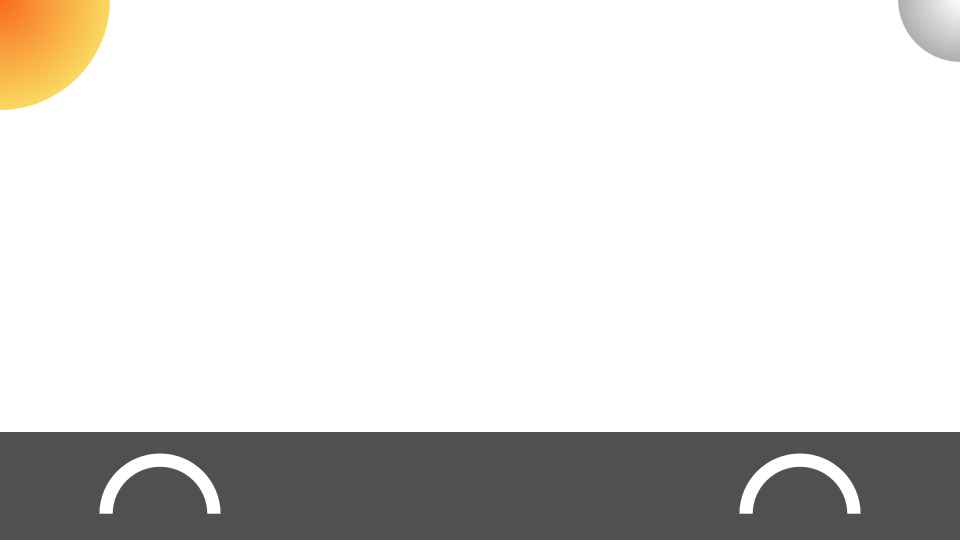
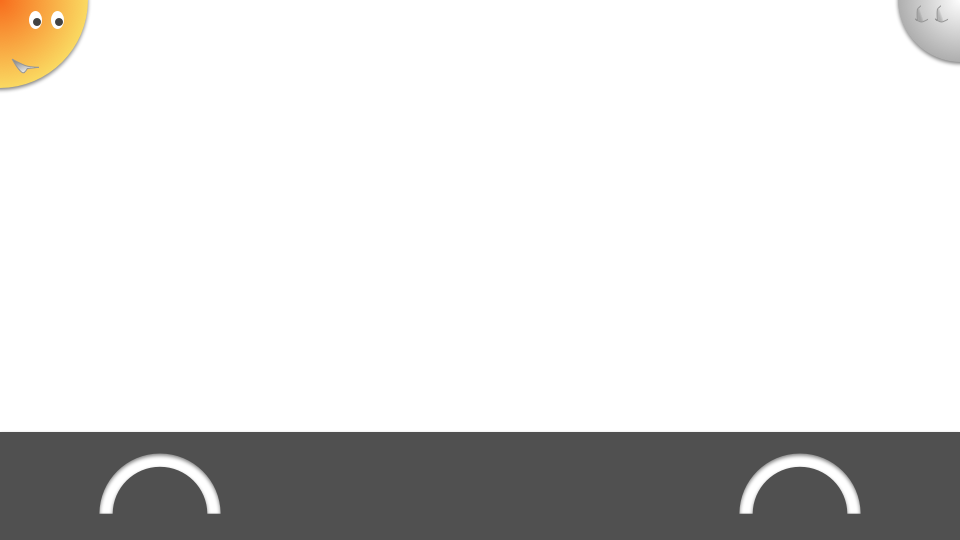
new map

diff --git a/game.core.js b/game.core.js
@@ -15,6 +15,7 @@ var game_core = function (server, clients) {
     players_count: 2,
     colors: ['hsl(240, 50%, 50%)', 'hsl(0, 50%, 50%)'],
     gravity_vector: {x:0, y: 100},
+    map: 'map_2',
     world: { width : 960, height : 540 },
     round_duration: 10,
     time_before_round_one: 5
@@ -897,7 +898,7 @@ var game_player = function (game, index, client) {
 
 
   this.acc = {x: 0, y:0 };
-  this.pos = {x: 120 + index * (960 - 240), y: 240};
+  this.pos = {x: 120 + index * (960 - 240), y: 0};
   this.server_sent_update = false;
   this.server_data = null;
   this.size = {x: 10, y: 10};
@@ -1015,7 +1016,7 @@ game_player.prototype.draw = function (ctx) {
 var game_terrain = function (world, game) {
   this.game = game;
   this.world = world;
-  this.map = 'assets/map.png';
+  this.map = 'assets/' + this.game.config.map + '.png';
   this.canvas = {};
   this.ctx = {};
 

diff --git a/game.client.js b/game.client.js
@@ -19,7 +19,7 @@ var assets = {
 };
 
 assets.images['hud'].src = 'assets/hud.png';
-assets.images['map'].src = 'assets/map.png';
+assets.images['map'].src = 'assets/map_2.png';
 assets.images['joystick_1'].src = 'assets/joystick_1.png';
 assets.images['joystick_2'].src = 'assets/joystick_2.png';
 assets.images['joystick_3'].src = 'assets/joystick_3.png';
